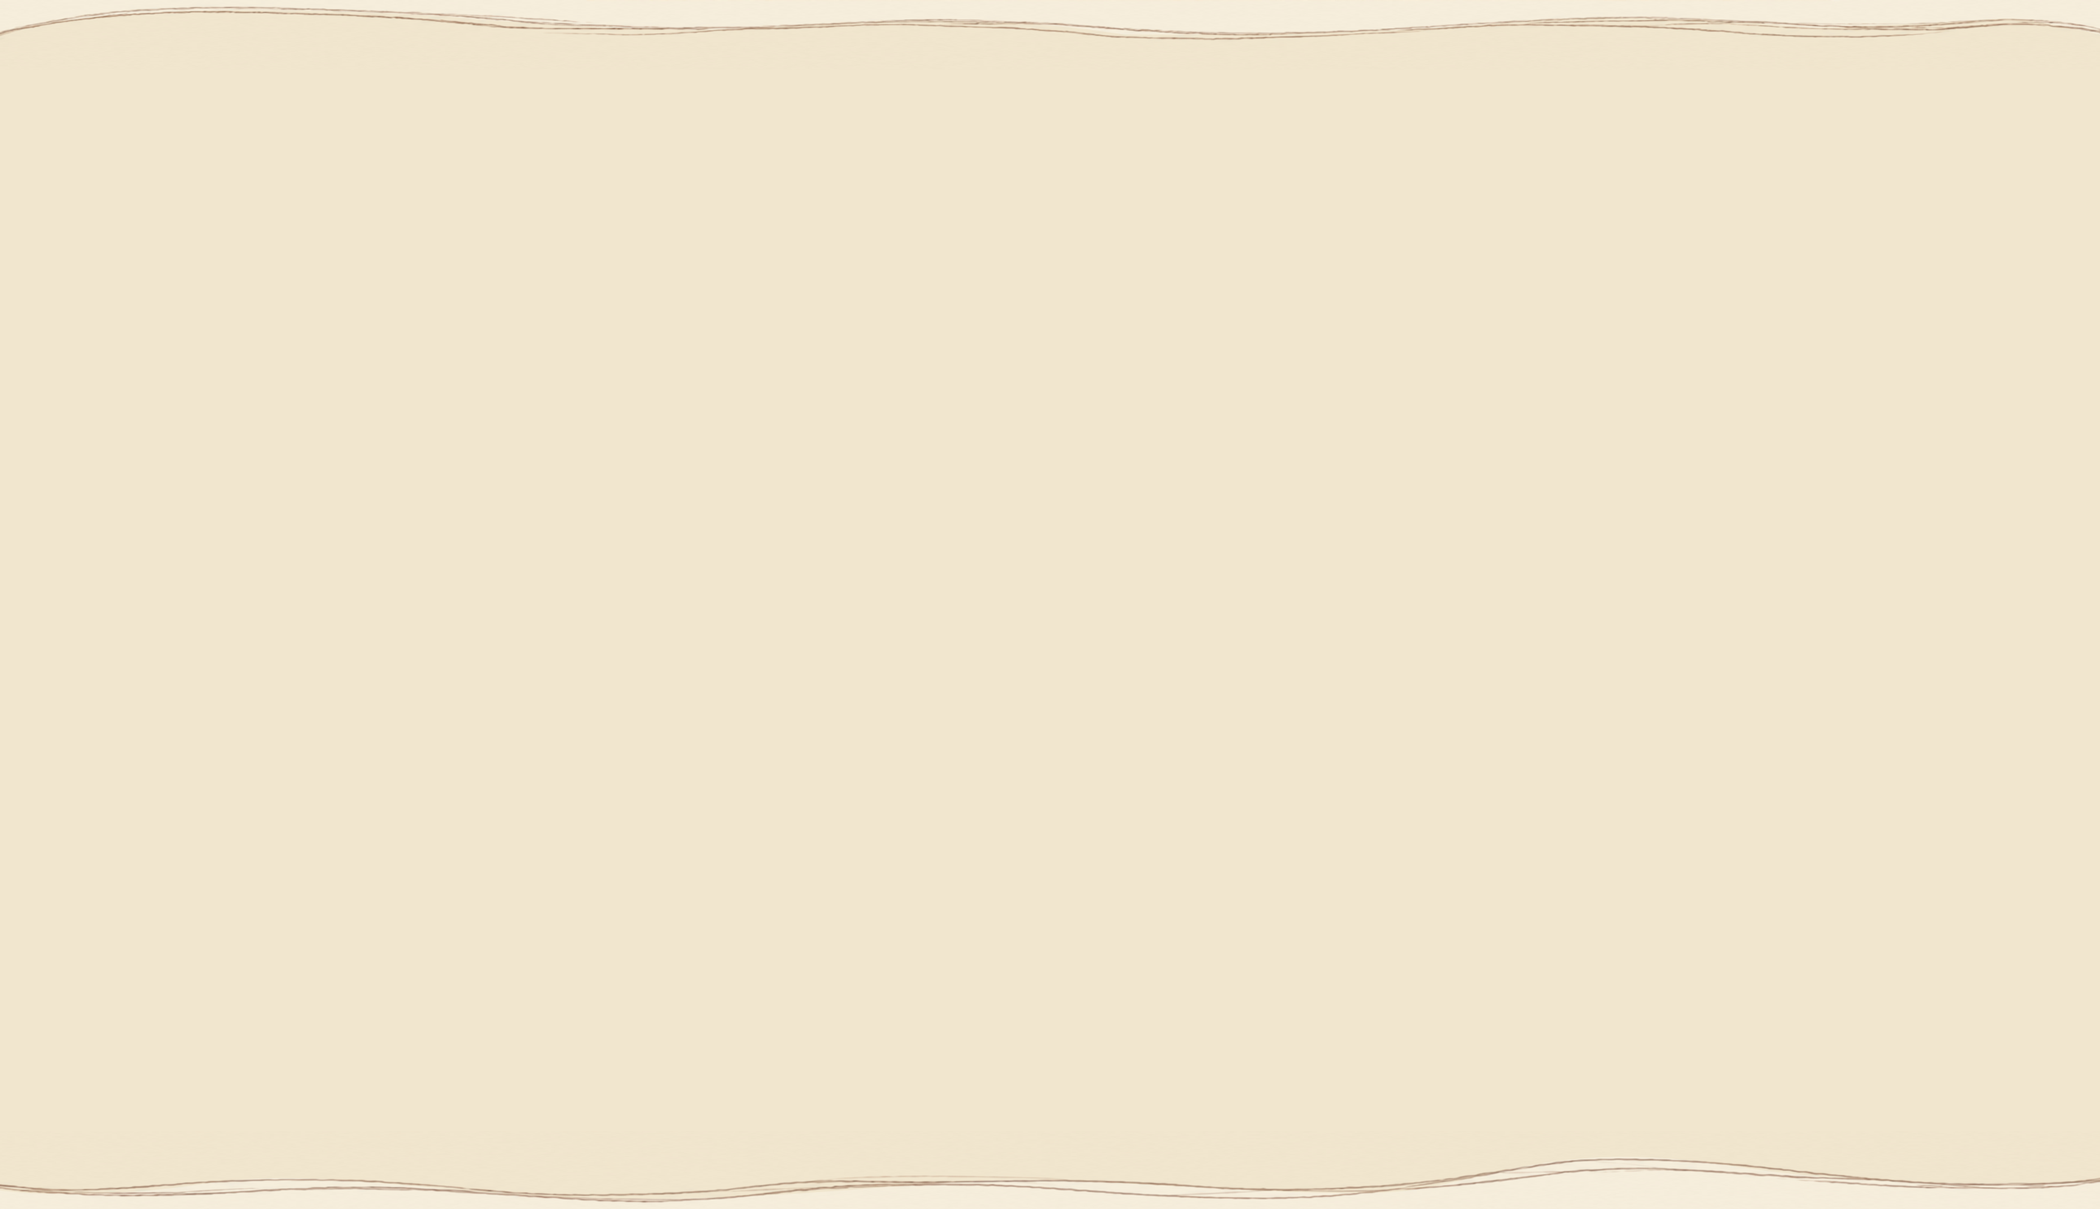
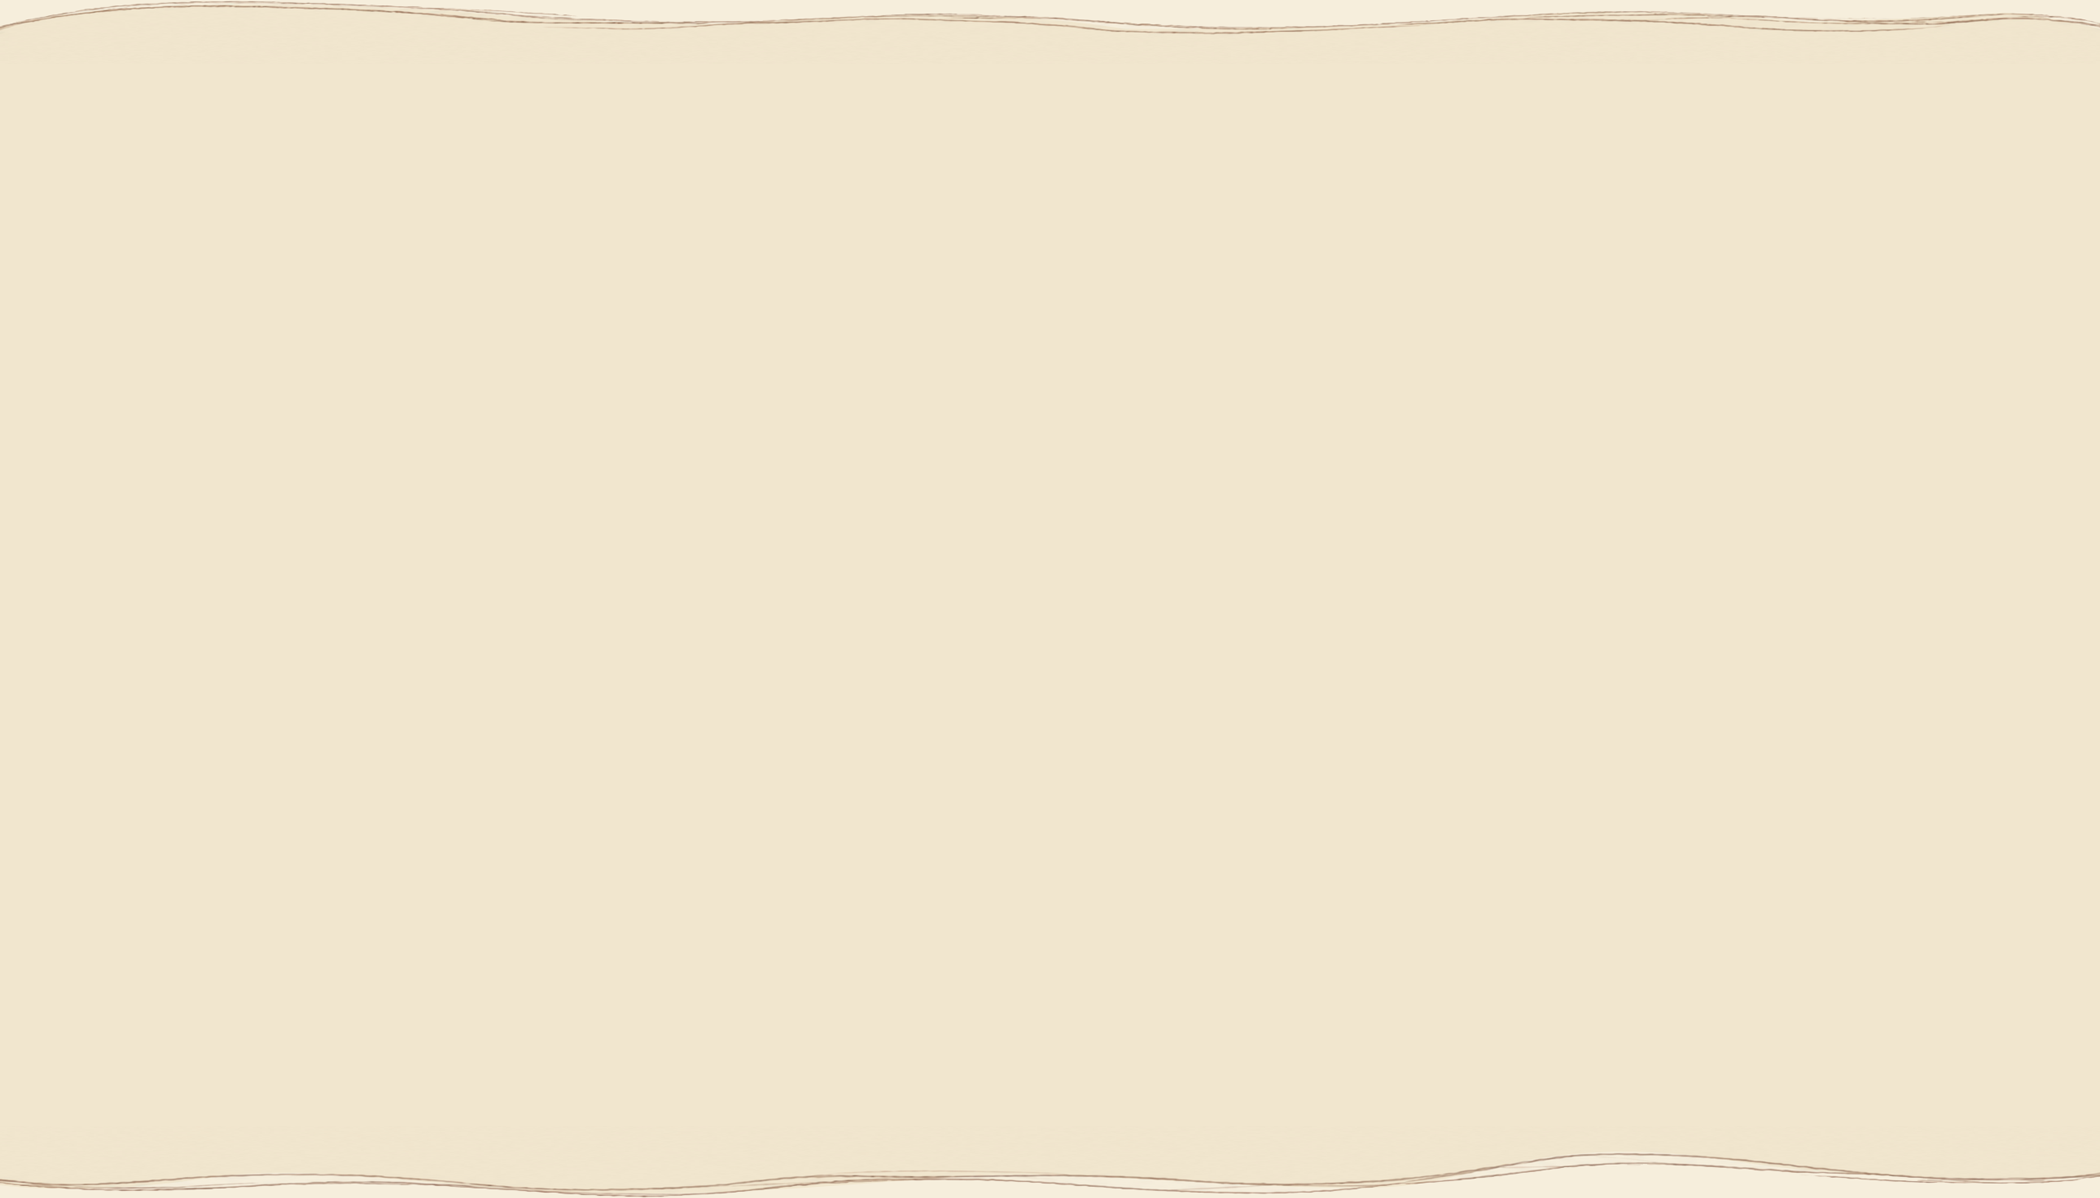
style: signals mockup window warms to #fffbf0, matching the vignette cards

Changed region(s): [[0.0, 0.9574, 1.0, 1.0], [0.0, 0.0, 0.5571, 0.0309], [0.5881, 0.0, 1.0, 0.0309]]

diff --git a/styles.css b/styles.css
@@ -551,7 +551,7 @@ section { padding: 96px 0; }
   background: var(--card); border: 1px solid var(--card-line);
   border-radius: var(--radius-lg); box-shadow: var(--shadow-lift); overflow: hidden;
 }
-.mock-signals { position: absolute; top: 16px; left: 0; width: 640px; background: var(--linen); }
+.mock-signals { position: absolute; top: 16px; left: 0; width: 640px; background: #fffbf0; }
 .mock-chrome {
   display: flex; align-items: center; gap: 7px; height: 36px; padding: 0 14px;
   background: var(--linen); border-bottom: 1px solid var(--sage-line); position: relative;
